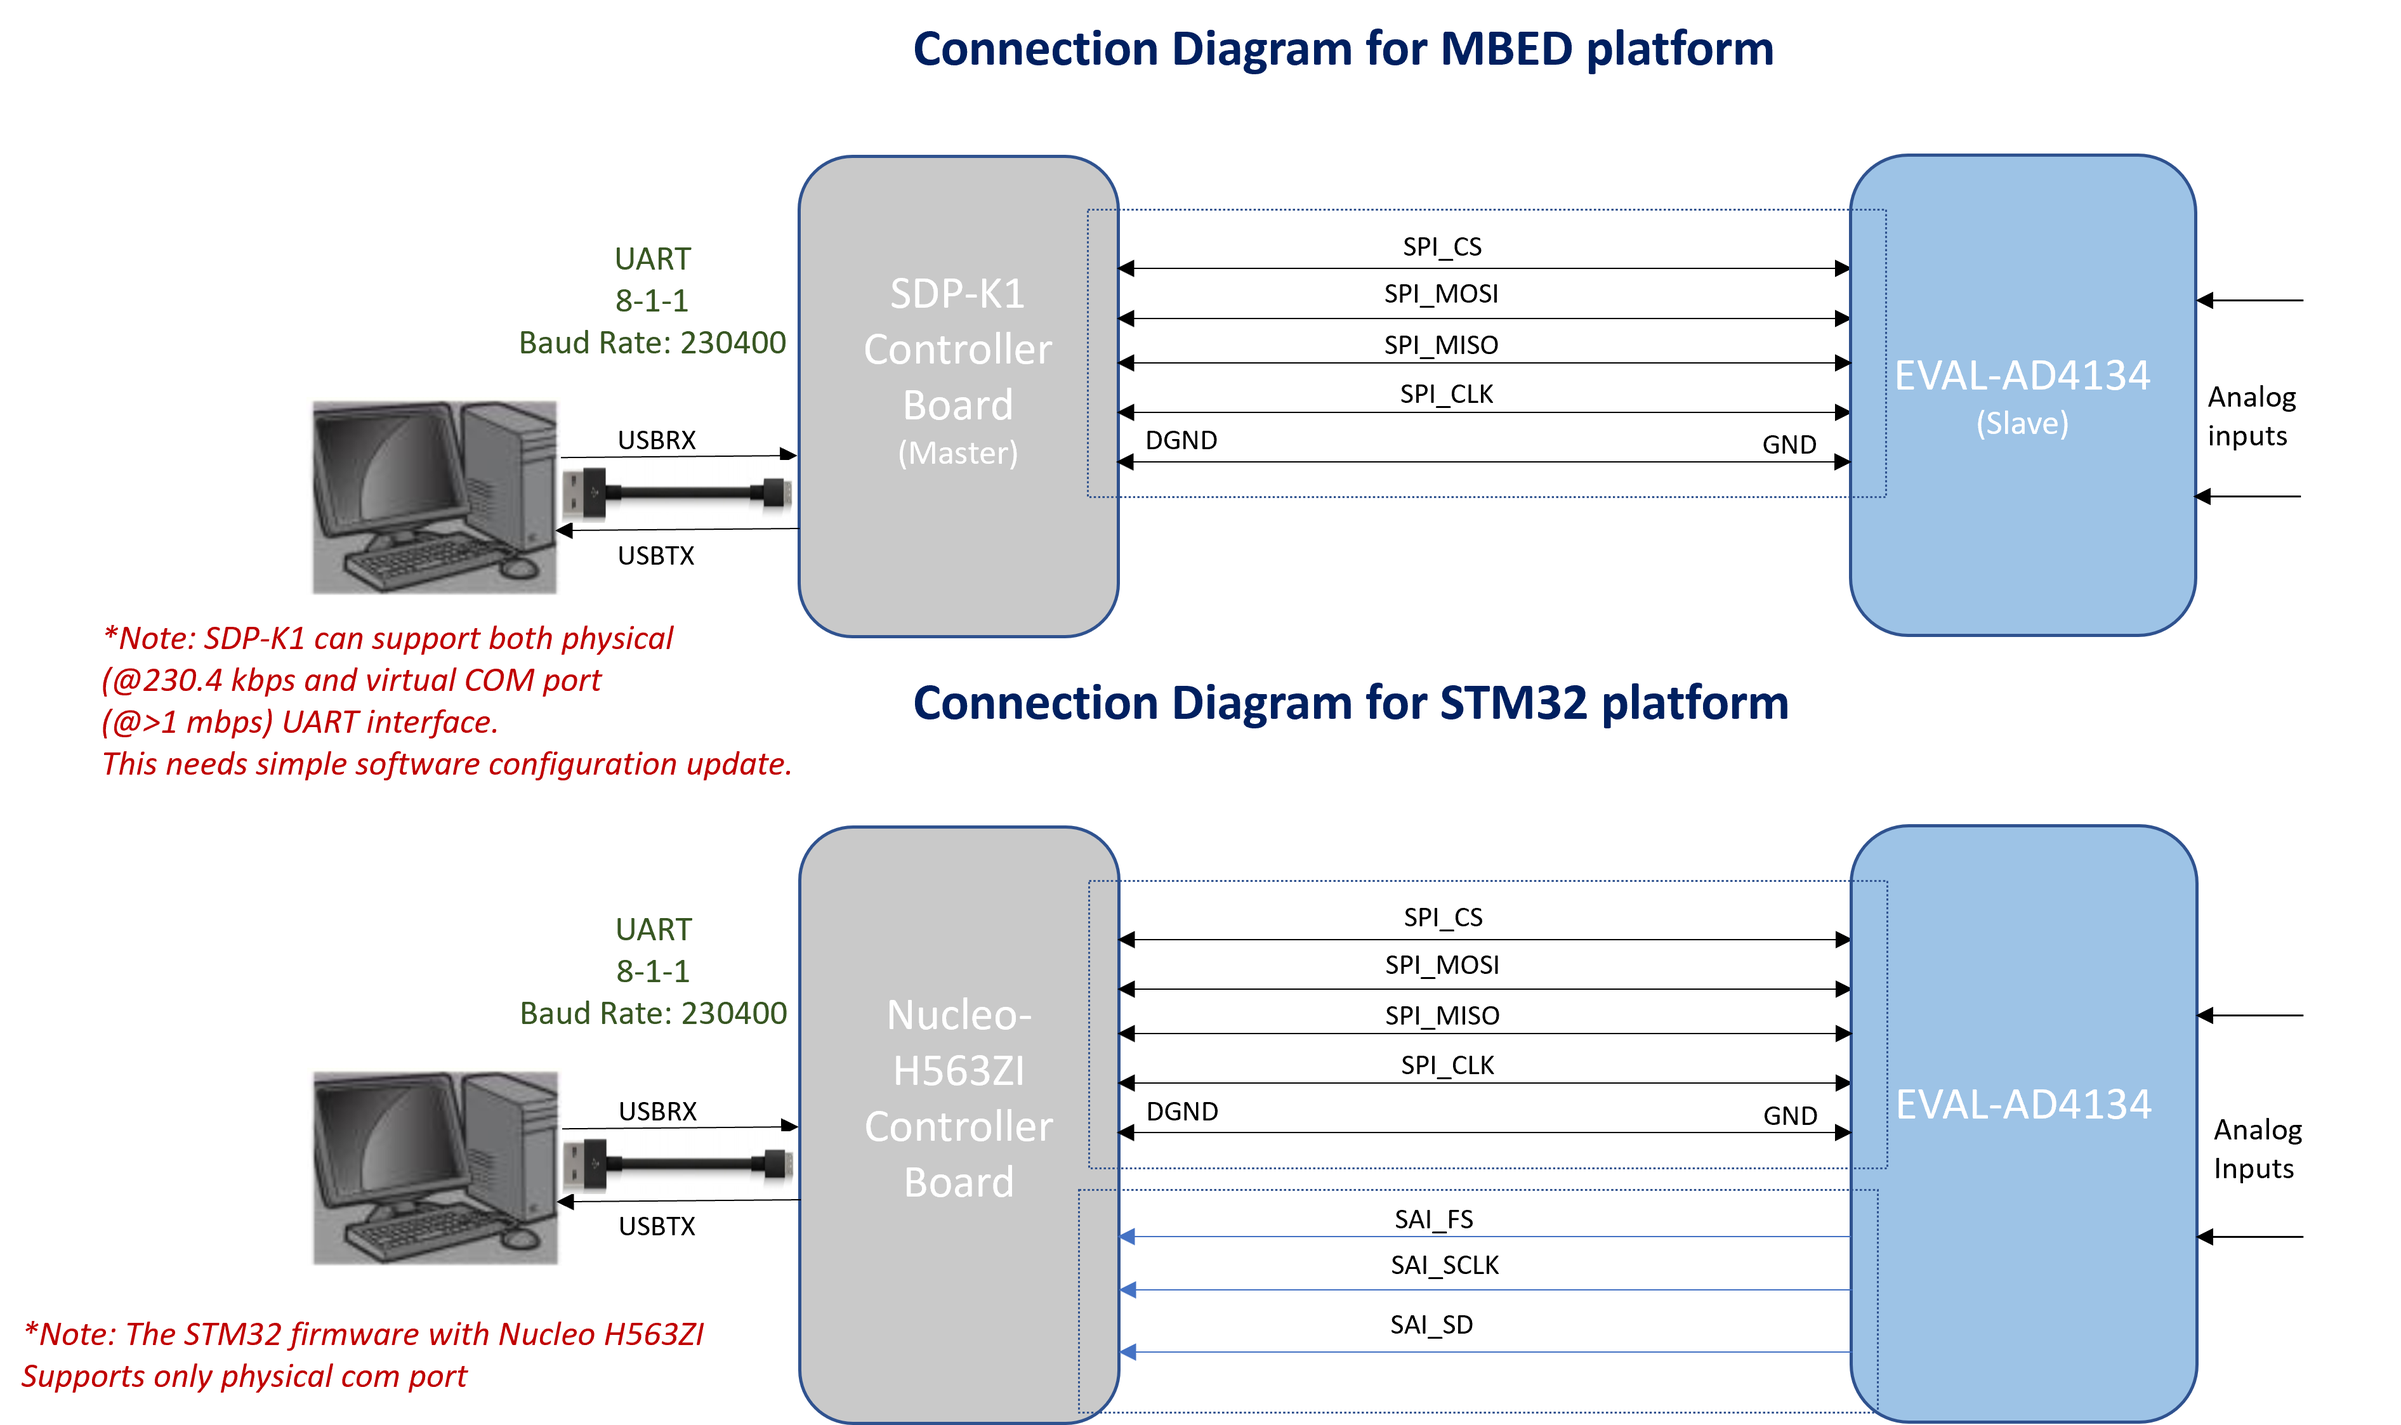
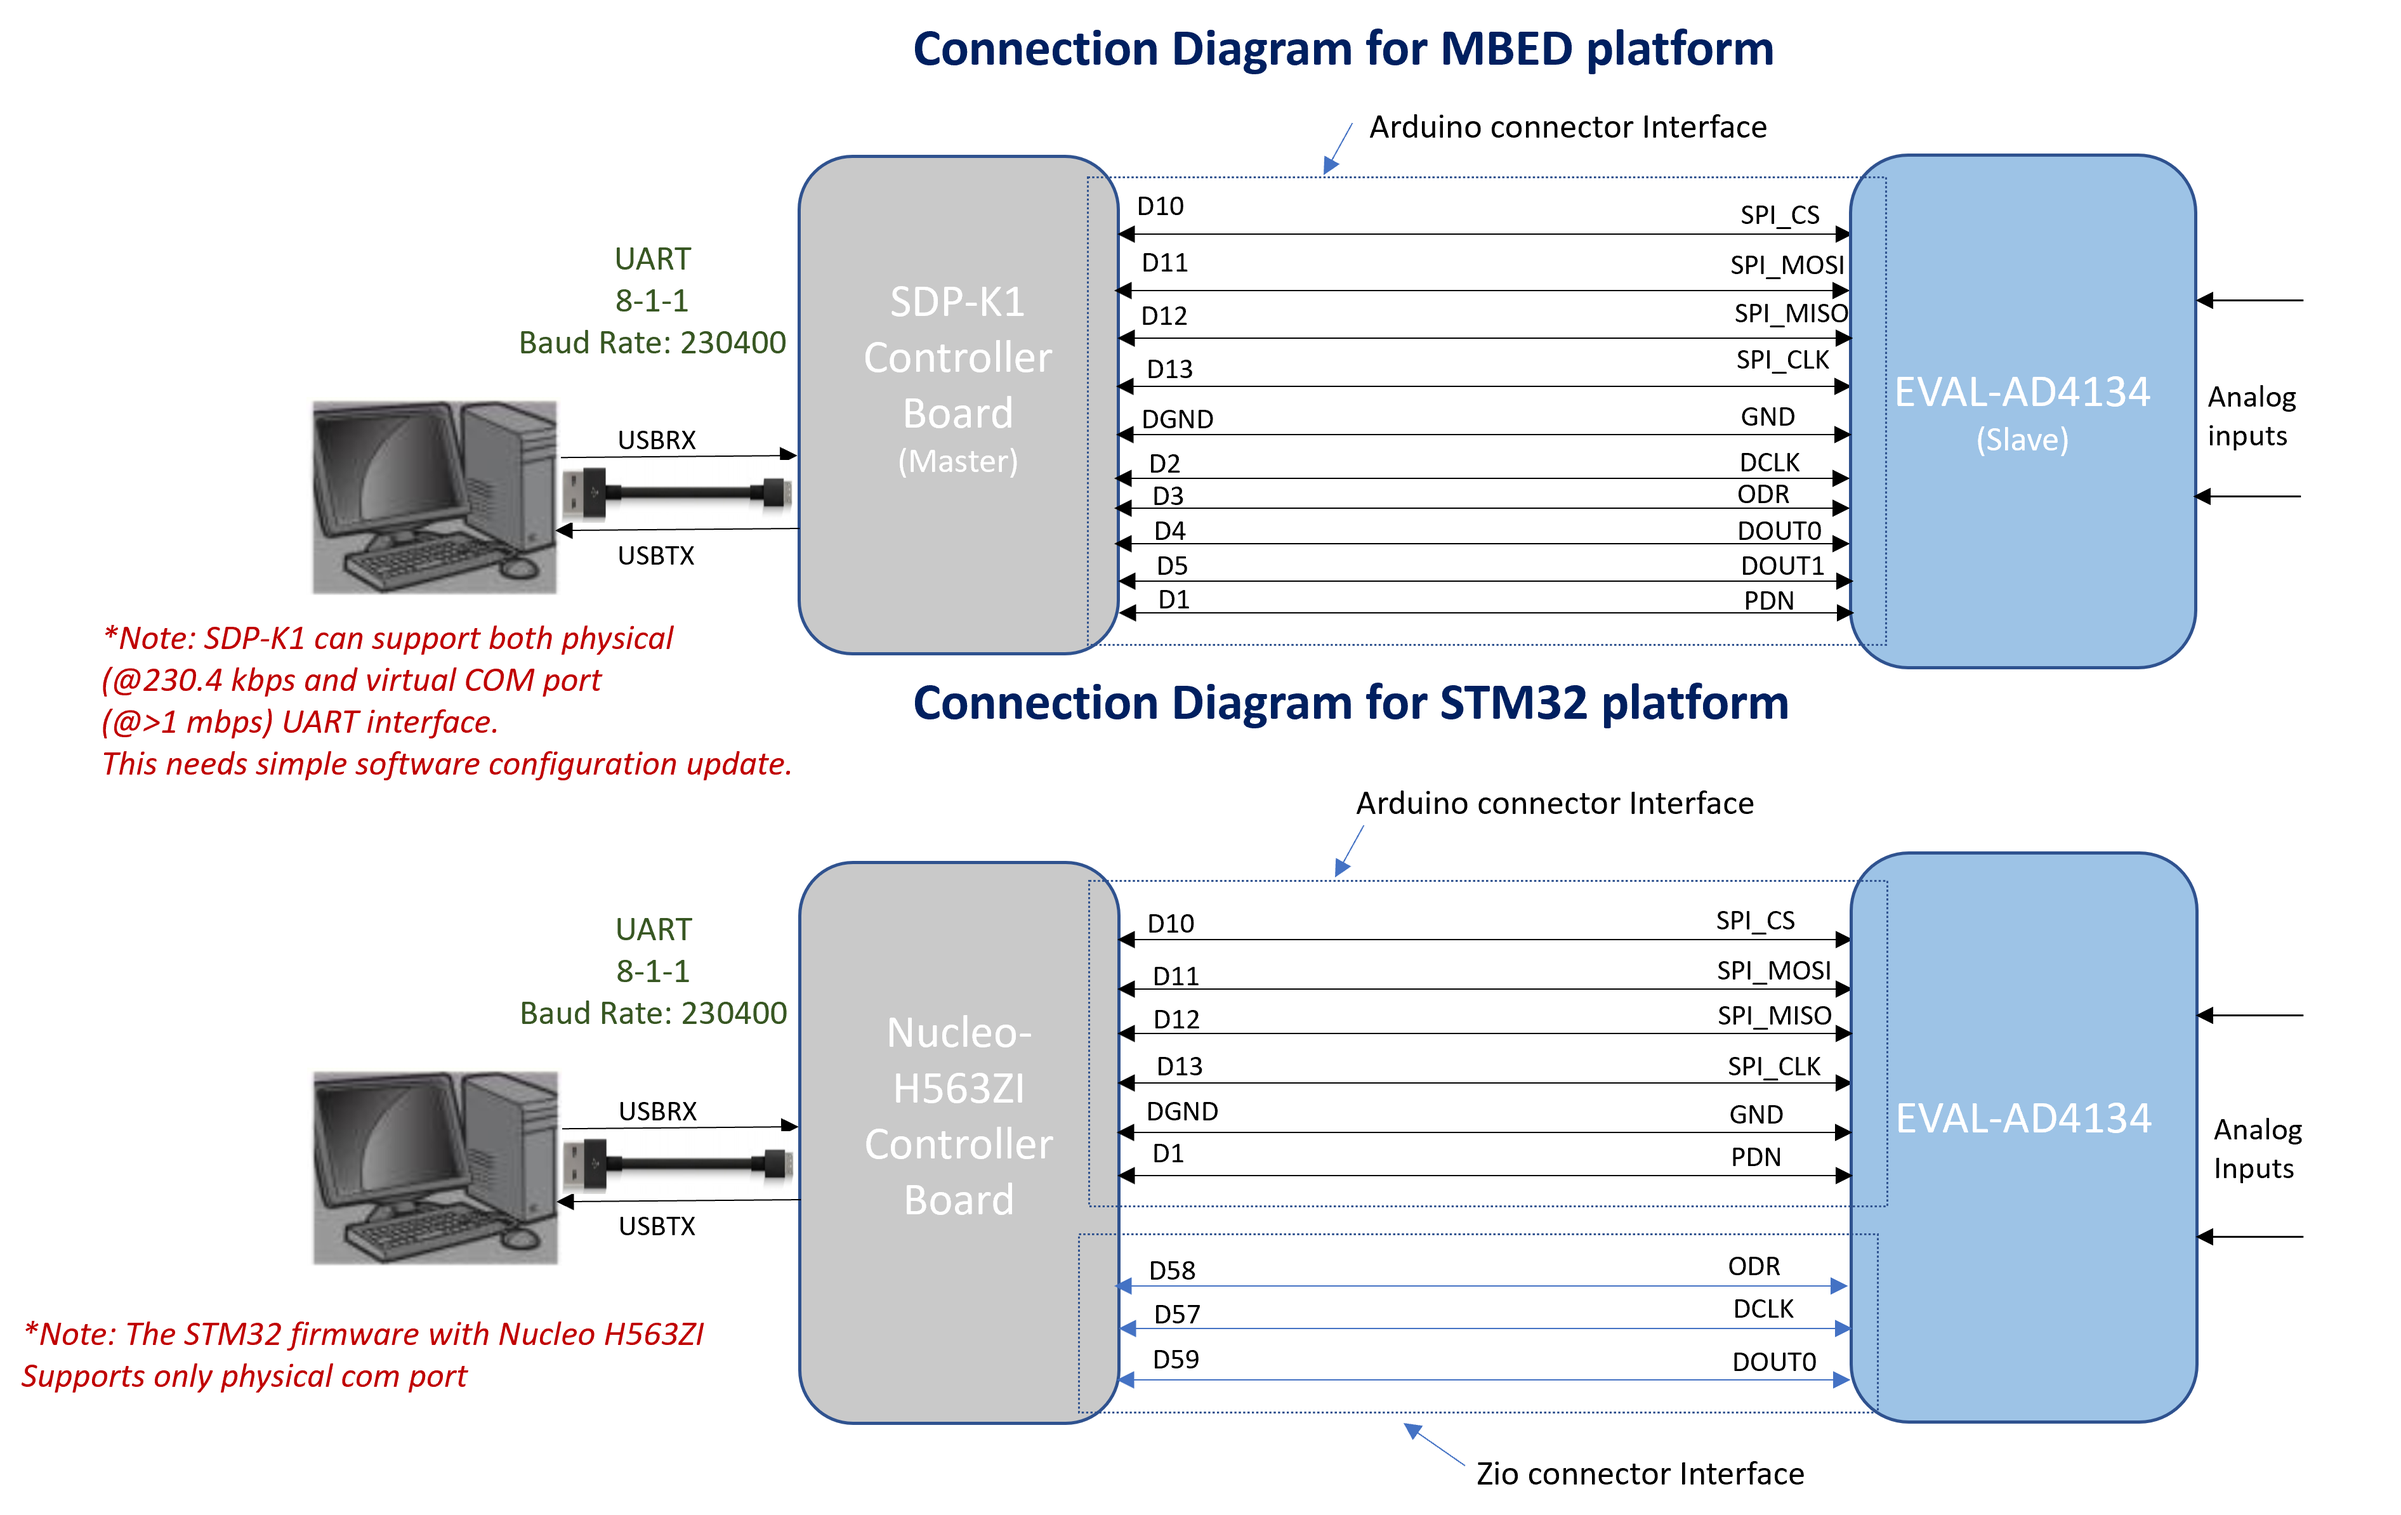
projects: Updated documentation
1) Updated the connection diagram for AD4170, AD777x and AD7134

2) Updated the rst file for AD4170

diff --git a/doc/sphinx/source/projects/ad4170_iio/ad4170_iio.rst b/doc/sphinx/source/projects/ad4170_iio/ad4170_iio.rst
@@ -7,11 +7,7 @@ Supported Hardware
 
 **Supported Devices:**
 
-* `AD4170 <https://www.analog.com/en/products/ad4170.html>`_ 
-
-**Supported Evaluation Boards:**
-
-* `EVAL-AD4170ARDZ <https://www.analog.com/en/resources/evaluation-hardware-and-software/evaluation-boards-kits/eval-ad4170.html>`_
+* `AD4170 <https://www.analog.com/en/products/ad4170-4.html>`_ 
 
 **Supported Carrier Boards:**
 
@@ -23,7 +19,7 @@ Introduction
 ============
 
 This page gives an overview of using the ARM platforms supported (default is Mbed) 
-firmware example with Analog Devices Ad4170 Evaluation board and SDP-K1 controller board. 
+firmware example with Analog Devices AD4170 Evaluation board and SDP-K1 controller board. 
 This example code leverages the ADI developed IIO (Industrial Input Output) ecosystem to 
 evaluate the AD4170 device by providing a device debug and data capture support.
 The code provides support to MBED and STM32 platforms.
@@ -60,7 +56,6 @@ board or an equivalent STM32 board). Connect controller board to the PC using th
    .. image:: /source/projects/ad4170_iio/ad4170_connection_diagram.png
       :width: 600
 
-
 ===============
 Jumper Settings
 ===============
@@ -71,6 +66,9 @@ Connect the VIO_ADJUST jumper on the SDP-K1 / JP4 on Nucleo-H563ZI board to 3.3V
 to drive SDP-K1 / Nucleo-H563ZI GPIOs at 3.3V
 
 **EVAL-AD4170:**
+
+In case the firmware is being used with the SDP-K1 in the STM32 platform with SPI DMA Mode of operation,
+an external jumper needs to be connected between D0 and D1 of the Arduino header of the SDP-K1
 
 Please refer to the user guide for the jumper connections on the EVAL-AD4170 board
 
